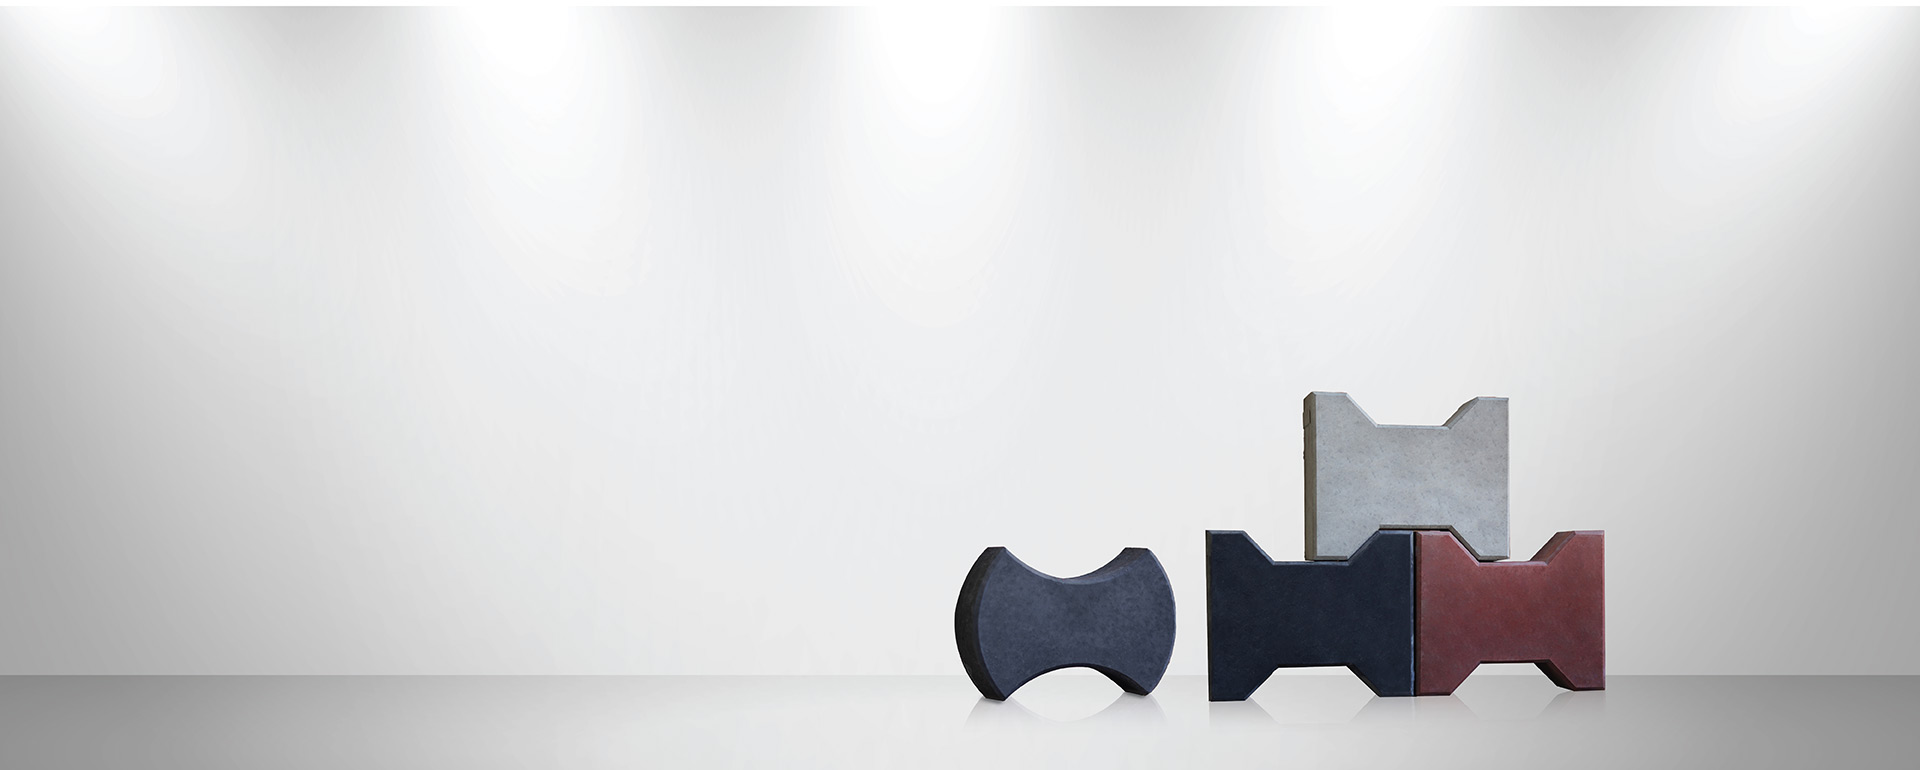
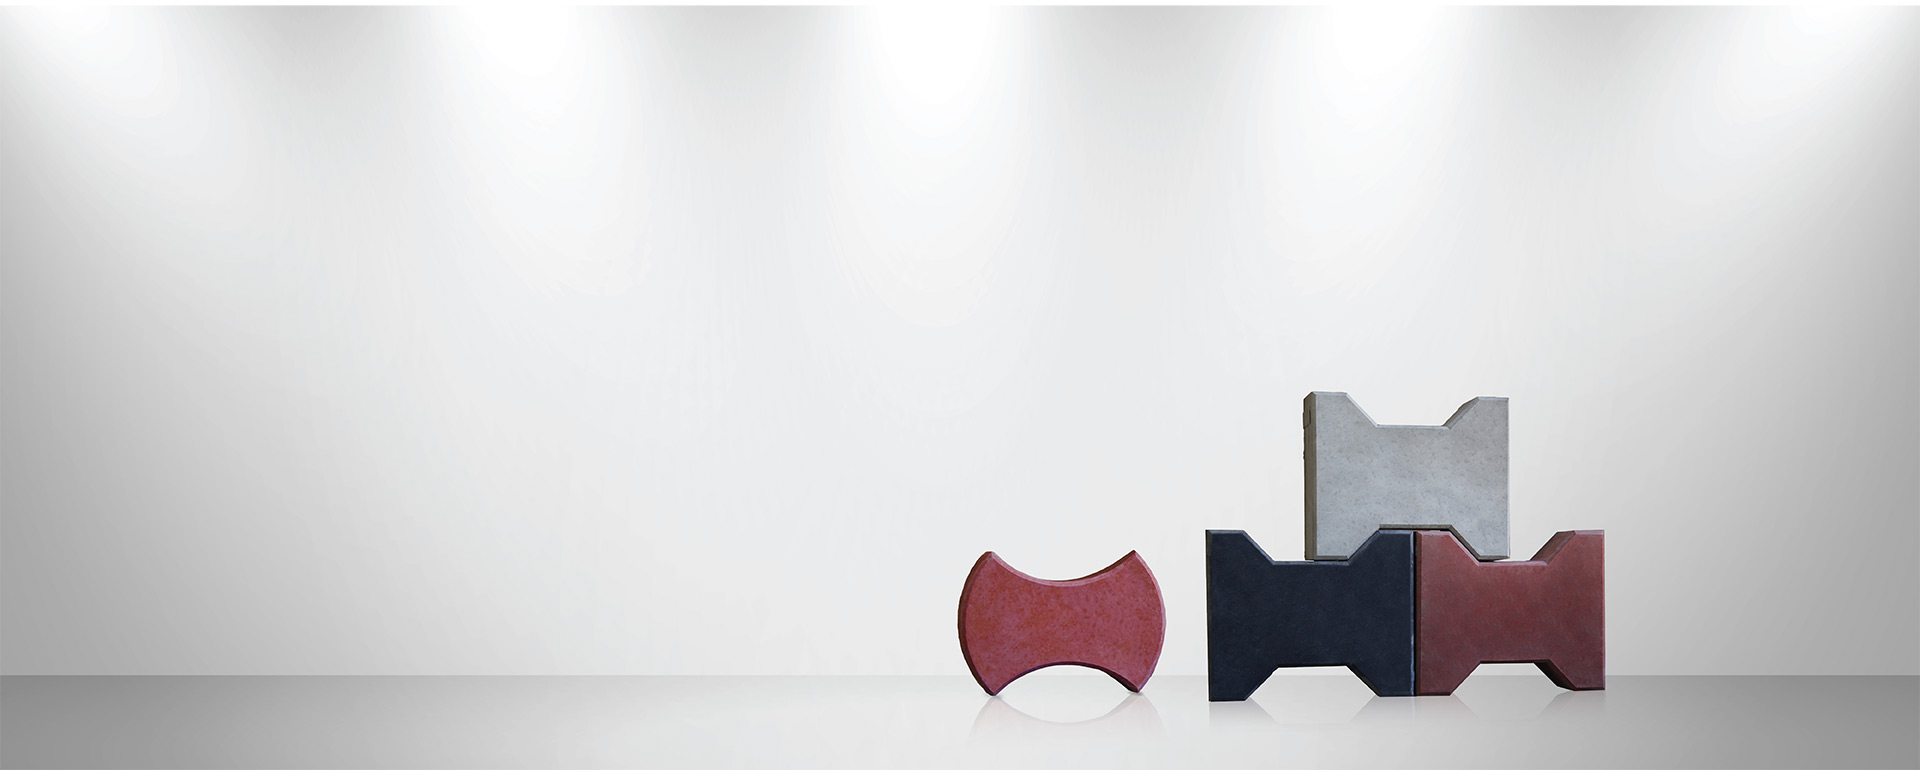
latest changes

Changed region(s): [[0.5, 0.7169, 0.625, 0.9351]]

diff --git a/resources/views/partials/frontend/head.blade.php b/resources/views/partials/frontend/head.blade.php
@@ -46,3 +46,52 @@
 <link href="{{ asset('assets/common/libs/sweetalert2/sweetalert2.min.css') }}" rel="stylesheet" type="text/css" />
 
 <link rel="stylesheet" href="https://cdnjs.cloudflare.com/ajax/libs/lightgallery/2.8.3/css/lightgallery.min.css" integrity="sha512-QMCloGTsG2vNSnHcsxYTapI6pFQNnUP6yNizuLL5Wh3ha6AraI6HrJ3ABBaw6SIUHqlSTPQDs/SydiR98oTeaQ==" crossorigin="anonymous" referrerpolicy="no-referrer" />
+
+<style type="text/css">
+    .features__shape img {
+        position: absolute;
+    }
+
+    .features__shape img.shape-right{
+        right: 5px;
+        top: 20px;
+        max-width: 160px;
+        transition-delay: .1s;
+        transition-duration: .7s;
+        -webkit-animation: moverTopRight 4s infinite  alternate;
+        animation: moverTopRight 4s infinite  alternate;
+    }
+
+    .features__shape img.shape-left{
+        left: 5px;
+        bottom: 20px;
+        max-width: 160px;
+        transition-delay: .1s;
+        transition-duration: .7s;
+        -webkit-animation: moverTopRight 4s infinite  alternate;
+        animation: moverTopRight 4s infinite  alternate;
+    }
+
+
+    @-webkit-keyframes moverTopRight {
+        0% { transform: translateY(0); }
+        50% { transform: rotate(10deg); }
+        100% { transform: translateY(4px); }
+    }
+    @keyframes moverTopRight {
+        0% { transform: translateY(0); }
+        50% { transform: rotate(10deg); }
+        100% { transform: translateY(4px); }
+    }
+
+    @-webkit-keyframes moverBottomLeft {
+        0% { transform: translateY(0); }
+        50% { transform: rotate(10deg); }
+        100% { transform: translateY(-4px); }
+    }
+    @keyframes moverBottomLeft {
+        0% { transform: translateY(0); }
+        50% { transform: rotate(10deg); }
+        100% { transform: translateY(-4px); }
+    }
+</style>

diff --git a/resources/views/frontend/index.blade.php b/resources/views/frontend/index.blade.php
@@ -127,7 +127,10 @@
                 </div>
             </div> -->
 
-            <div class="row justify-content-center">
+            <div class="row justify-content-center position-relative">
+                <div class="features__shape">
+                    <img class="banner-swing-img-bottom-right shape-right" src="{{ asset('assets/common/images/shape_right.png') }}" alt="shape" data-sal="zoom-in" data-sal-duration="700" data-sal-delay="100">
+                </div>
                 <div class="col-sm-8">
                     <div class="mb-2 pb-3 text-center" data-animate="fadeInUp">
                         <!-- <p class="fs-23px mb-5 font-bebas text-uppercase new-theme-secondary">We Build What Lasts</p> -->
@@ -174,7 +177,7 @@
                 </div>
             </div>
 
-            <div class="row justify-content-center">
+            <div class="row justify-content-center position-relative">
                 <div class="col-sm-8">
                     <div class="mb-2 pb-3 text-center" data-animate="fadeInUp">
                         <h2 class="mb-0 new-theme-purple font-bebas">Our Team</h2>
@@ -208,6 +211,10 @@
                             <img class="img-fluid theme-border-radius theme-drop-shadow" src="{{ asset('assets/common/images/uploads/about-team.jpg') }}">
                         </div>
                     </div>
+                </div>
+
+                <div class="features__shape">
+                    <img class="banner-swing-img-bottom-right shape-left" src="{{ asset('assets/common/images/shape_left.png') }}" alt="shape" data-sal="zoom-in" data-sal-duration="700" data-sal-delay="100">
                 </div>
             </div>
 